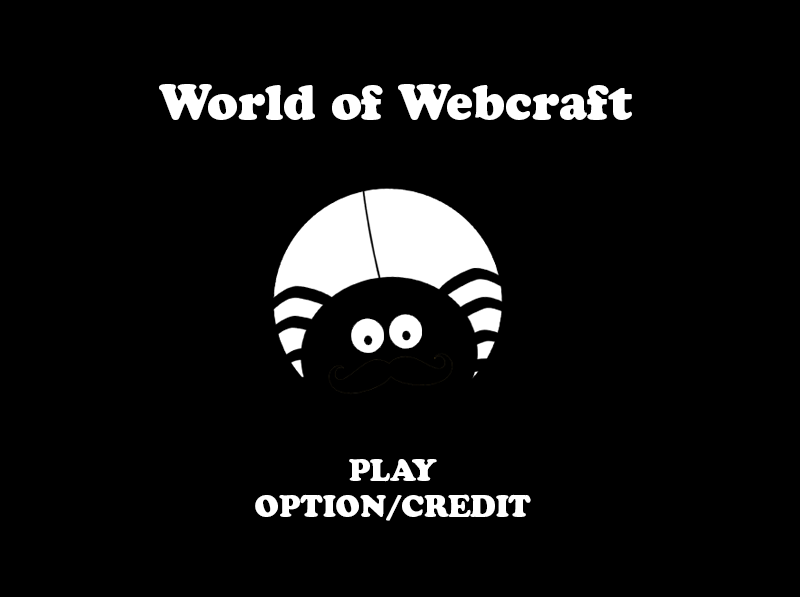
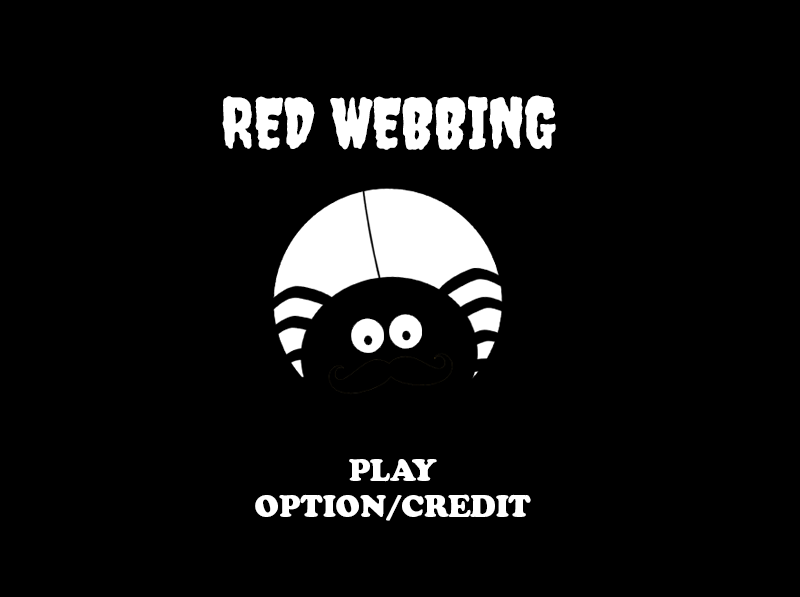
changed the title message and initial background

Changed region(s): [[0.1875, 0.1206, 0.8125, 0.2714]]

diff --git a/game.py b/game.py
@@ -5,7 +5,7 @@ def main():
     pygame.init()
 
     pygame.mixer.pre_init(44100,16,2,4096)
-    pygame.display.set_caption("Connect!)")
+    pygame.display.set_caption("RED WEBBING")
     screen = pygame.display.set_mode((800,600))
     image = pygame.image.load(os.path.join("images", "background.png"))
     character_selection = pygame.image.load(os.path.join("images", "character_selection.png"))
